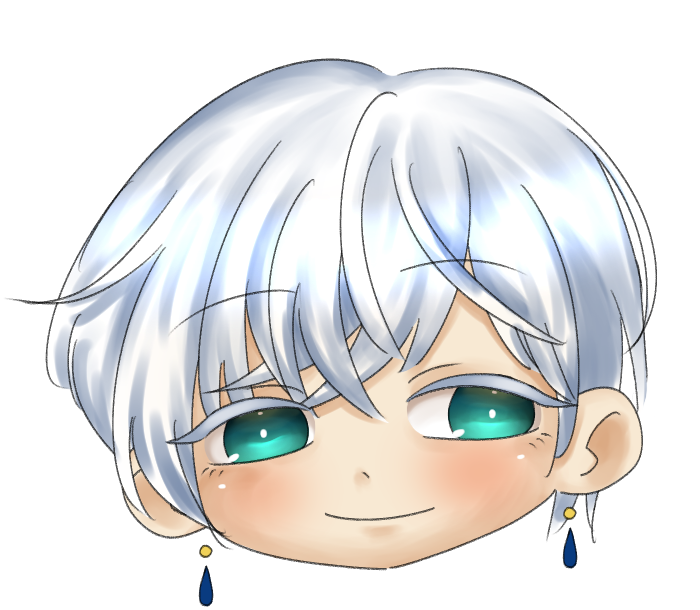
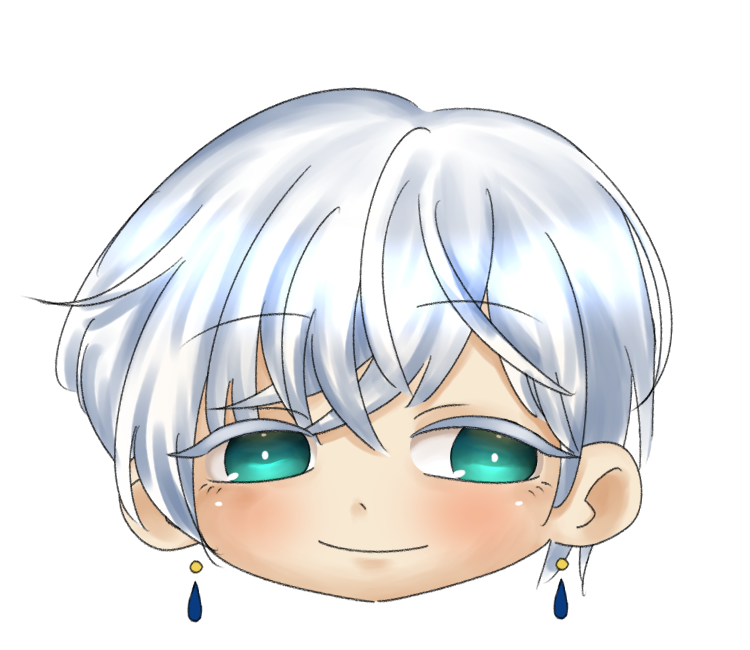
修改圖片

diff --git a/link.html b/link.html
@@ -127,7 +127,7 @@
                 <thead>
                 <tr>
                     <th><img src="images/Moi-OC-1.png" class="flip-horizontal" alt="自創OC角-神父" style="width: 124px; height: auto;"></th>
-                    <th><img src="images/Moi-OC-4.png" alt="自創OC角-修女小天使" style="width: 124px; height: auto;"></th>
+                    <th><img src="images/Moi-OC-3.png" alt="自創OC角-修女小天使" style="width: 124px; height: auto;"></th>
                     <th><img src="images/Moi-OC-2.png" class="flip-horizontal" alt="自創OC角-魔女" style="width: 124px; height: auto;"></th>
                 </tr>
                 </thead>
